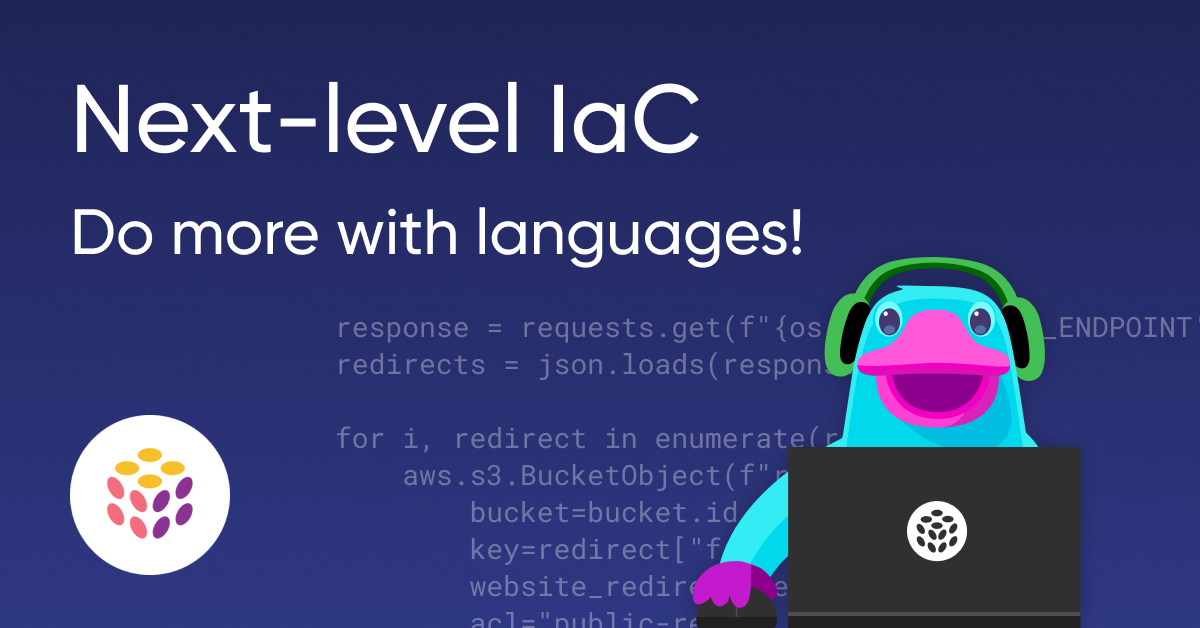
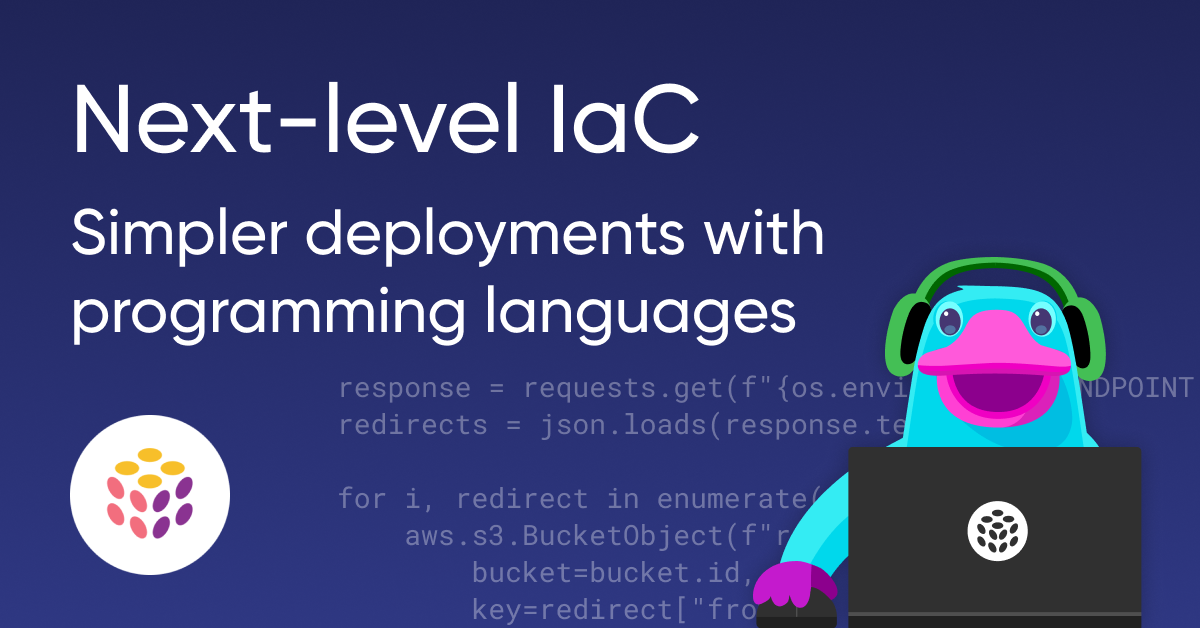
Address feedback

diff --git a/themes/default/static/programs/aws-static-website-with-runtime-logic-typescript/index.ts b/themes/default/static/programs/aws-static-website-with-runtime-logic-typescript/index.ts
@@ -8,7 +8,10 @@ const config = new pulumi.Config("aws");
 const region = config.require("region");
 
 // Build the website.
-const proc = childProcess.execSync("hugo", { stdio: "inherit", cwd: "./www" });
+const result = childProcess.execSync("hugo --destination ./public", { stdio: "pipe", cwd: "./www" });
+
+// Log the build output to the console.
+console.log(result.toString());
 
 // Provision a storage bucket for the website.
 const bucket = new aws.s3.Bucket("bucket", {
@@ -99,15 +102,14 @@ const cdn = new aws.cloudfront.Distribution("cdn", {
     },
 });
 
-// Register a function to be be invoked before the program exits.
-process.on("beforeExit", () => {
+function createInvalidation(id: string) {
     // Only invalidate after a deployment.
     if (pulumi.runtime.isDryRun()) {
         console.log("This is a Pulumi preview, so skipping cache invalidation.");
         return;
     }
 
-    cdn.id.apply(id => {
+    process.on("beforeExit", () => {
         const client = new cloudfront.CloudFrontClient({ region });
         const command = new cloudfront.CreateInvalidationCommand({
             DistributionId: id,
@@ -131,7 +133,10 @@ process.on("beforeExit", () => {
                 process.exit(1);
             });
     });
-});
+}
+
+// Register a function to be invoked before the program exits.
+cdn.id.apply(id => createInvalidation(id));
 
 // Export the URL of the CDN.
 export const cdnURL = pulumi.interpolate`https://${cdn.domainName}`;

diff --git a/themes/default/static/programs/aws-static-website-with-runtime-logic-python/__main__.py b/themes/default/static/programs/aws-static-website-with-runtime-logic-python/__main__.py
@@ -1,6 +1,6 @@
 import pulumi
 import pulumi_aws as aws
-import asyncio
+import atexit
 import boto3
 import json
 import os
@@ -9,7 +9,16 @@ import subprocess
 import time
 
 # Build the website.
-result = subprocess.run(["hugo"], stdout=subprocess.PIPE, cwd="./www")
+result = subprocess.run(
+    ["hugo", "--destination", "./public"],
+    stdout=subprocess.PIPE,
+    cwd="./www",
+    check=True,
+    shell=True,
+)
+
+# Log the build output to the console.
+print(result.stdout.decode())
 
 # Provision a storage bucket for the website.
 bucket = aws.s3.Bucket(
@@ -47,12 +56,15 @@ redirects = json.loads(response.text)
 
 # Create an S3 website redirect for each one.
 for i, redirect in enumerate(redirects):
-    aws.s3.BucketObject(f"redirect-{i}",
+    aws.s3.BucketObject(
+        f"redirect-{i}",
         bucket=bucket.id,
         key=redirect["from"],
         website_redirect=redirect["to"],
         acl="public-read",
-        opts=pulumi.ResourceOptions(depends_on=[ownership_controls, public_access_block]),
+        opts=pulumi.ResourceOptions(
+            depends_on=[ownership_controls, public_access_block]
+        ),
     )
 
 # Create a CloudFront distribution for the website.
@@ -94,8 +106,8 @@ cdn = aws.cloudfront.Distribution(
     ),
 )
 
-def create_invalidation(id):
 
+def create_invalidation(id):
     # Don't bother invalidating unless it's an actual deployment.
     if pulumi.runtime.is_dry_run():
         print("This is a Pulumi preview, so skipping cache invalidation.")
@@ -105,21 +117,21 @@ def create_invalidation(id):
     result = client.create_invalidation(
         DistributionId=id,
         InvalidationBatch={
-            "CallerReference": f"invalidation-{str(time.time)}",
+            "CallerReference": f"invalidation-{time.time()}",
             "Paths": {
                 "Quantity": 1,
-                "Items": [ "/*" ],
+                "Items": ["/*"],
             },
         },
     )
 
-    print(f"Cache invalidation of distribution {id}: {result['Invalidation']['Status']}.")
+    print(
+        f"Cache invalidation for distribution {id}: {result['Invalidation']['Status']}."
+    )
 
-# Register a function to be be invoked before the program exits.
-async def invalidate(id):
-    await asyncio.to_thread(create_invalidation, id)
 
-cdn.id.apply(lambda id: invalidate(id))
+# Register a function to be invoked before the program exits.
+cdn.id.apply(lambda id: atexit.register(lambda: create_invalidation(id)))
 
 # Export the URL of the CDN.
 pulumi.export("cdnURL", pulumi.Output.format("https://{0}", cdn.domain_name))

diff --git a/themes/default/content/blog/next-level-iac-pulumi-runtime-logic/index.md b/themes/default/content/blog/next-level-iac-pulumi-runtime-logic/index.md
@@ -1,7 +1,8 @@
 ---
-title: "Next-level IaC: Do more with languages!"
+title: "Next-level IaC: Drop those wrapper scripts and let your language do that for you"
+allow_long_title: true
 date: 2024-04-26
-meta_desc: Learn how to use your language of choice to do more than simply declare cloud resources.
+meta_desc: Learn how to use your language of choice to do more than just declare cloud resources.
 meta_image: meta.png
 authors:
     - christian-nunciato
@@ -16,25 +17,25 @@ tags:
 
 Our users are always telling us (particularly the ones who come to Pulumi from other IaC tools) that being able to use general-purpose languages to manage their infrastructure was a game changer for them.
 
-I know it was for me. As a JavaScript developer, when I discovered Pulumi and saw that I could do pretty much everything I was doing with Terraform _but with TypeScript_, I was immediately hooked; that's all it took. For me, just being able to write my resource declarations in a full-featured language that I knew well, and that my IDE deeply understood, was huge.
+I know it was for me. As a JavaScript developer, when I discovered Pulumi and saw that I could do pretty much everything I was doing with Terraform _but with TypeScript_, I was immediately hooked; that's all it took. Just being able to write my resource declarations in a language I knew well (and that my IDE understood) was huge.
 
-But it's easy to forget, even when you've been using Pulumi for a while, that you aren't just getting the language alone --- you're getting the full breadth and capability of that language's runtime environment as well. Not just JavaScript, but all of Node.js. Not just C#, but everything the .NET framework and common-language runtime have to offer.
+But it's easy to forget, even when you've been using Pulumi for a while, that you aren't just getting the language alone --- you're getting the full capability of the language's runtime environment also. Not just JavaScript, but all of Node.js. Not just C#, but everything the .NET framework, runtime, and ecosystem have to offer.
 
-This is quite a big deal, actually. Whereas with other tools, you're bound by the limitations of the tool's DSL (CloudFormation YAML, Terraform HCL, etc.), with Pulumi, you have no such constraints; you can do just about anything your chosen language and runtime can do. That means much more than just declare long lists of cloud resources --- it means unlocking all sorts of capabilities that allow you do more with less, handle change easily, and really bring your infrastructure-management practice to a whole new level.
+This is quite a big deal, actually. Whereas with other tools, you're often bound by the limits of the tool's DSL, with Pulumi, you have no such constraints; you can do just about anything your chosen language can do. That means much more than just declaring long lists of cloud resources --- it means unlocking all kinds of capabilities that can help bring your infrastructure-management practice to a whole new level.
 
-In this post, the first of a series, we'll show you a few things you can do to take advantage of this reality.
+In this post, the first of a new series we're calling Next-level IaC, we'll show you a few small but useful ways you can take advantage of this reality --- first, by spotting some opportunities to simplify your deployments.
 
 ## Run pre-deployment tasks with Pulumi
 
-Since a Pulumi program is just a regular program, you can take actions programmatically before runs --- specifically before Pulumi begins [registering resource declarations](https://www.pulumi.com/docs/concepts/how-pulumi-works).
+Fundamentally, a Pulumi program is just a regular program. That means you can take actions programmatically at runtime --- before the Pulumi engine gets going.
 
-Suppose you were writing a program to deploy a static website. With a traditional IaC tool, you might model the deployment in steps:
+Suppose you were tasked with writing the code to deploy and manage a static website. Conceptually, you might break this process up into a few separate steps:
 
 1. Build the website
-1. Deploy the supporting infrastructure (cloud storage, content-delivery front-end)
+1. Deploy the supporting infrastructure (e.g, the cloud storage, maybe a content-delivery network)
 1. Copy the content of the website into the infrastructure
 
-To execute these steps, you might reach for something like Bash, writing a shell script similar to the following, which uses [Hugo](https://gohugo.io/), a popular static-site generator, to build the website, Pulumi to provision the infrastructure, and the AWS CLI to upload the content:
+This you might lead you to reach for Bash to write up a shell script like the one below, which uses [Hugo](https://gohugo.io/) (a popular static-site generator) to build the website, Pulumi to provision the infrastructure, and the AWS CLI to push the built website up into the AWS cloud:
 
 ```bash
 #!/bin/bash
@@ -45,11 +46,11 @@ hugo --destination ./public
 # Provision the infrastructure.
 pulumi up --yes
 
-# Copy the content of the website into the infrastructure.
+# Copy the website content into the infrastructure.
 aws s3 sync ./public s3://$(pulumi stack output bucketName)
 ```
 
-And this would work --- but it's also unnecessary. You can get rid of the Bash wrapper entirely by just using your chosen language's built-in support for spawning shell processes:
+And this would definitely work. But it's also unnecessary. You can avoid both the Bash wrapper and the dependency on the AWS CLI by using your chosen language's built-in support for spawning shell processes:
 
 {{< chooser language "typescript,python" />}}
 
@@ -87,26 +88,20 @@ import pulumi_aws as aws
 import subprocess
 
 # Build the website.
-result = subprocess.run(["hugo"], stdout=subprocess.PIPE, cwd="./www")
+result = subprocess.run(["hugo", "--destination", "./public"], stdout=subprocess.PIPE, cwd="./www", check=True, shell=True)
+
+# Log the build output to the console.
+print(result.stdout.decode())
 
 # Provision a storage bucket for the website.
-bucket = aws.s3.Bucket(
-    "bucket", website=aws.s3.BucketWebsiteArgs(index_document="index.html")
-)
-
-# Copy the website home page into the bucket
-homepage = aws.s3.BucketObject(
-    "index.html",
-    bucket=bucket.id,
-    content=open("./www/public/index.html", "r").read(),
-    content_type="text/html",
-    acl="public-read",
-)
+bucket = aws.s3.Bucket("bucket", website=aws.s3.BucketWebsiteArgs(
+    index_document="index.html"
+))
 ```
 
 {{% /choosable %}}
 
-Because these processes run synchronously, they finish before the deployment engine gets going, terminating the containing process on error and logging any relevant output to the console:
+Running processes like these synchronously, as above, means they'll complete before Pulumi starts [registering resources](https://www.pulumi.com/docs/concepts/how-pulumi-works) --- important here because the `BucketObject` resource needs that `public` folder to exist for the deployment to succeed. Fortunately it does, so all is well:
 
 ```
 $ pulumi up
@@ -134,20 +129,19 @@ Diagnostics:
       Cleaned          |  0
     Total in 11 ms
 
-Outputs:
-    bucketName: bucket-5b63cc9
-
 Resources:
     + 3 created
 ```
 
-Simple stuff, but flexible and powerful. With one line, you've made your deployment process simpler, dropping two tools you no longer need thanks to the built-in capabilities of your language of choice.
+Also notice how the example captures the output of the process in `result` and writes it to the terminal. Standard logging like this tends not to be possible with static languages (at least not without some hackery) because there's no real way to do it programmatically. Similarly, those that do support spawning processes tend to require them to return strictly formatted JSON strings --- which, as the example shows, not all processes do. (Forcing you to have to wrap them with yet more shell scripts.)
+
+Simple stuff, but flexible and powerful. With one line, you've kept your deployment process simple, dropping two tools you don't need thanks to the built-in capabilities of Pulumi and your language of choice.
 
 ## Fetch data to generate resources dynamically
 
-To build on the static-website scenario, suppose you wanted to retrieve some data from an external source and then use it to provision a set of cloud resources dynamically. For instance, you might want to let your marketing team create their own short URLs for social media posts. For this, you might once again reach for Bash to pull those URLs from a corporate CMS, either before or after running `pulumi` itself, to create the corresponding redirects imperatively using `curl` and the `aws` CLI.
+To build on the static-website scenario, suppose you wanted to retrieve some data from an external source and use it to provision some cloud resources dynamically. For example, you might want to let your marketing team create short URLs on their own for social media posts. For this, you might once again turn to Bash and the AWS CLI to pull those URLs from your corporate CMS (e.g., with `curl`), either before or after running `pulumi`, and create the corresponding redirects imperatively using a follow-up shell command of some sort.
 
-Again, totally reasonable. But why bother, when you have the full capability of {{< langhost >}} at fingertips? Just add a few lines to the program to fetch the data and be on your way:
+Again, a totally reasonable approach. But again, why bother, when you have the full capability of {{< langhost >}} at fingertips? Just add a few lines to your program to fetch the data and be on your way:
 
 {{< chooser language "typescript,python" />}}
 
@@ -200,76 +194,21 @@ for i, redirect in enumerate(redirects):
 
 {{% /choosable %}}
 
-Notice the example parses the response using the language's built-in JSON support. If your CMS happened to return data in some other format, or required some additional credentials for authorization, no problem --- your language and its ecosystem are already there to help you.
+Notice the example parses the response using the language's built-in JSON support. If your CMS happened to return data in some other format, or required some additional credentials for authorization, no problem --- your language and its package ecosystem are going to be there to help you.
 
-Also notice the example reads the source URL directly from the environment. This is typically more cumbersome (or even impossible) with other tools, requiring that you name your environment variables in specific ways, and then tack on additional blocks of configuration in order to read and assign them. But as you can see, since you're working with {{< langhost >}}, it's as easy as referencing a regular variable.
+Also notice the example reads the source URL directly from the environment. This is typically more cumbersome (if even possible) with other tools, requiring you to name your environment variables in tool-specific ways and then tack on additional blocks of configuration before you're able to use them. As you can see, {{< langhost >}} makes this much more convenient.
 
-Finally, notice it also uses a familiar looping construct. That's next!
-
-## Write clear, simple loops and conditionals
-
-One of the fundamental difficulties of working with any strictly declarative syntax (whether that's YAML, JSON, HCL or something else) is figuring out how to express conditional and iterative logic. There's just no great way to do this without sacrificing usability or clarity somehow. This makes sense --- What would a loop even look like in JSON? --- but even so, reality demands that as engineers, we're able to control, at least somehow, whether or not (or how many times) a given thing happens.
-
-Configuration languages often handle this by augmenting the syntax with meta-properties that _look_ neatly declarative, but can be awkward and hard to decipher in practice, such as here, which uses HCL to conditionally declare three S3 buckets:
-
-```hcl
-variable "enable_storage" {
-    type = bool
-    default = true
-}
-
-variable "bucket_count" {
-    type = list(number)
-    default = [1, 2, 3]
-}
-
-resource "aws_s3_bucket" "bucket" {
-    count = var.enable_storage ? length(var.bucket_count) : 0
-    bucket = "my-uniquely-named-bucket-${element(var.bucket_count, count.index)}"
-}
-```
-
-General-purpose languages make this so much easier. Here's the same example rewritten in {{< langname >}} using a plain `if` statement and `for` loop. Anyone familiar with {{< langname >}} could look at this code and see what's going on --- and if they had debug it, they could do so by adding a log statement using the language's built-in support for that, too (which static languages aren't really able to do):
-
-{{< chooser language "typescript,python" />}}
-
-{{% choosable language typescript %}}
-
-```typescript
-const enableStorage = true;
-
-if (enableStorage) {
-    for (let i in [1, 2, 3]) {
-        new aws.s3.Bucket(`bucket-${i}`);
-    }
-}
-```
-
-{{% /choosable %}}
-
-{{% choosable language python %}}
-
-```python
-enable_storage = True
-
-if enable_storage:
-    for i in range(1, 3):
-        bucket = aws.s3.Bucket(f"bucket-{i}")
-```
-
-{{% /choosable %}}
-
-Again, things like these just make the job that much easier.
+Finally, notice the redirects are translated into cloud resources using a familiar {{< langname >}} looping construct. We'll cover this topic in much more depth in an upcoming post. (Stay tuned!)
 
 ## Hook the event loop to run tasks after deployment
 
-Finally, you can do nifty things like run tasks programmatically after a Pulumi deployment completes --- without ever having to leave the Pulumi program.
+Finally, you can do nifty things like run tasks programmatically _after_ a Pulumi deployment completes --- once again, without ever having to leave the Pulumi program.
 
-If your hypothetical website were sitting behind a CloudFront CDN, for example, you'd probably need some way to clear the CDN's cache after a deployment. This generally requires some imperative action, like using the AWS CLI to run `aws cloudfront create-invalidation` at some point later. How might you do something like this, given that Pulumi programs exit automatically when their operations complete?
+If your hypothetical website were sitting behind a CloudFront CDN, for example, you might want some way to clear the CDN's cache after a deployment. This generally requires some imperative action, like using the AWS CLI to run `aws cloudfront create-invalidation` sometime later. How might you do something like this with Pulumi, given Pulumi programs exit automatically when their operations complete?
 
-One way --- again, since a Pulumi program is just a regular {{< langhost >}} program --- would be to write a {{< langname >}} function to create an invalidation request, and then ask the {{< langhost >}} runtime to run the function before exiting.
+One way --- again, since a Pulumi program is just a regular {{< langhost >}} program --- would be to write a {{< langname >}} function to create an invalidation request, and then ask the {{< langhost >}} runtime to run that function before exiting.
 
-The mechanics of this vary slightly by language, but it works, and it's a handy way to keep all of your deployment logic in one place --- again avoiding the need to wrap anything in a Bash script:
+The mechanics of this vary slightly by language, but it works, and it's a very handy way to keep all of your deployment logic in one place --- again avoiding the need to relegate anything to a Bash script:
 
 {{< chooser language "typescript,python" />}}
 
@@ -294,7 +233,7 @@ const cdn = new aws.cloudfront.Distribution("cdn", {
     // ...
 });
 
-// Register a function to be be invoked before the program exits.
+// Register a function to be invoked before the program exits.
 process.on("beforeExit", () => {
 
     // Only invalidate after a deployment.
@@ -375,7 +314,7 @@ def create_invalidation(id):
 
     print(f"Cache invalidation of distribution {id}: {result['Invalidation']['Status']}.")
 
-# Register a function to be be invoked before the program exits.
+# Register a function to be invoked before the program exits.
 async def invalidate(id):
     await asyncio.to_thread(create_invalidation, id)
 
